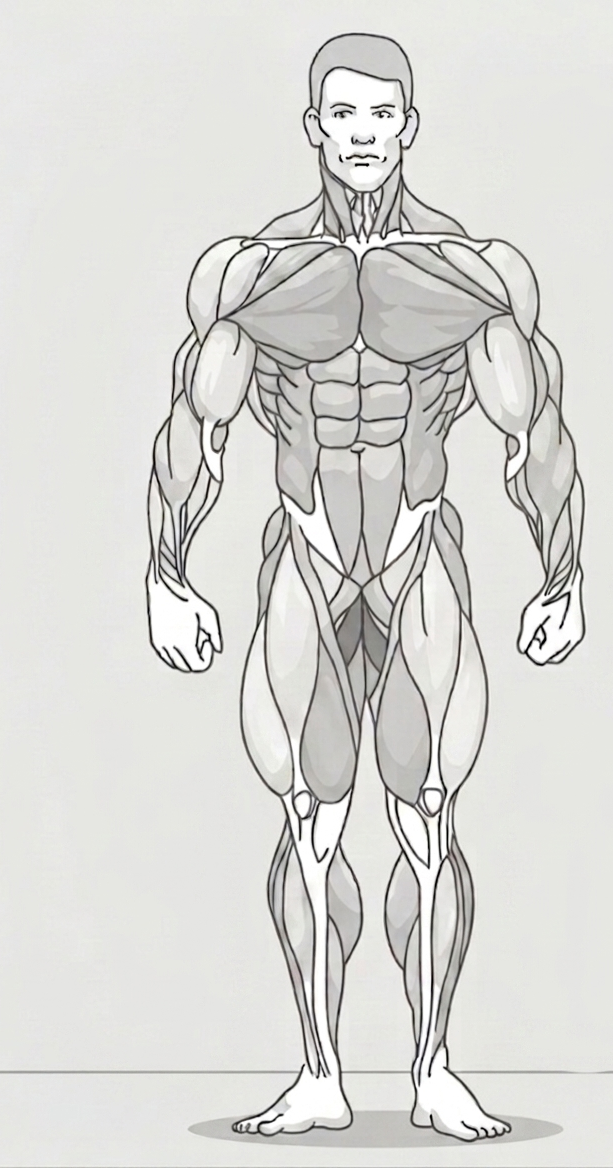
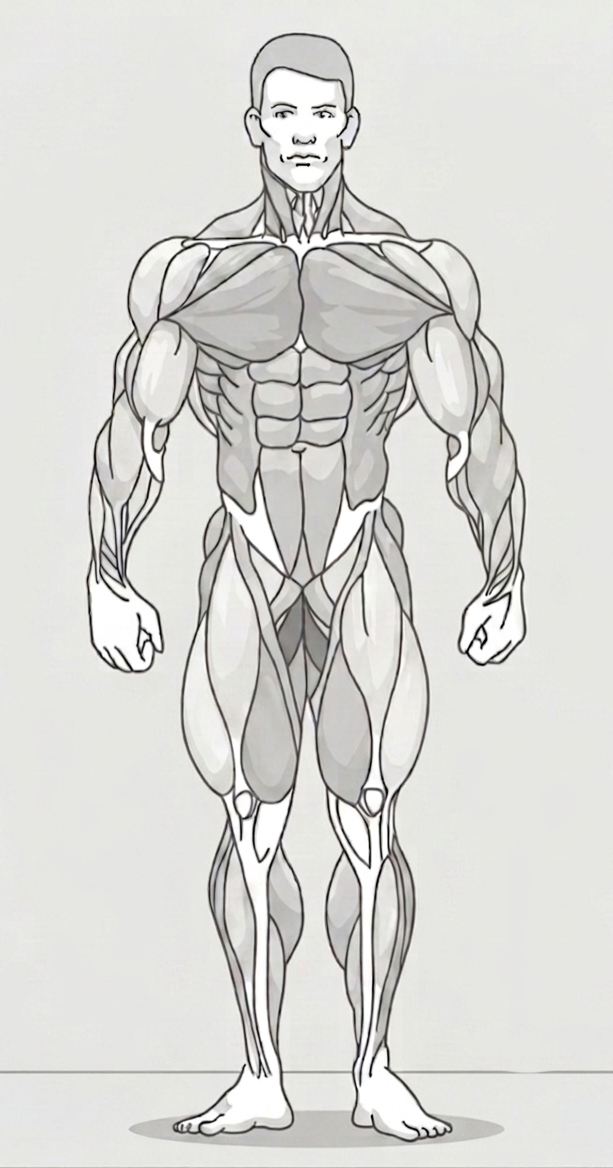
fix: centre front-view figure and align SVG highlights
Re-crop body_front.png so the figure is visually centred at x=77/155px
(was x=93, appeared right-shifted). Add translate(-16,0) on front SVG
paths via a <G> wrapper so muscle highlights stay aligned with the
re-centred image.

https://claude.ai/code/session_01CNgaPeZDmZ2EehmJcXwwst

diff --git a/src/components/workout/ExerciseMuscleMap.tsx b/src/components/workout/ExerciseMuscleMap.tsx
@@ -1,7 +1,7 @@
 import React, { useState } from 'react';
 import { View, StyleSheet, TouchableOpacity, Image } from 'react-native';
 import { Text, useTheme } from 'react-native-paper';
-import Svg, { Path } from 'react-native-svg';
+import Svg, { Path, G } from 'react-native-svg';
 
 // Internal region identifiers — superset of MuscleGroup.
 // 'front_shoulders' = anterior/lateral deltoid (FRONT view only).
@@ -266,7 +266,6 @@ export default function ExerciseMuscleMap({ primaryMuscles, secondaryMuscles, st
       </View>
 
       <View style={{ width: DISP_W, height: DISP_H }}>
-        <View style={{ width: DISP_W, height: DISP_H }}>
           <Image
             source={view === 'front'
               ? require('../../assets/body_front.png')
@@ -274,9 +273,10 @@ export default function ExerciseMuscleMap({ primaryMuscles, secondaryMuscles, st
             style={{ width: DISP_W, height: DISP_H }}
             resizeMode="stretch"
           />
-        </View>
 
         <Svg width={DISP_W} height={DISP_H} style={StyleSheet.absoluteFill}>
+          {/* Front paths were calibrated for x-centre=93; image is now centred at x=77 → shift -16 */}
+          <G transform={view === 'front' ? 'translate(-16, 0)' : undefined}>
           {muscles.map(({ m, paths }) => {
             const c = getCol(m);
             if (!c) return null;
@@ -291,6 +291,7 @@ export default function ExerciseMuscleMap({ primaryMuscles, secondaryMuscles, st
               />
             ));
           })}
+          </G>
         </Svg>
       </View>
 
